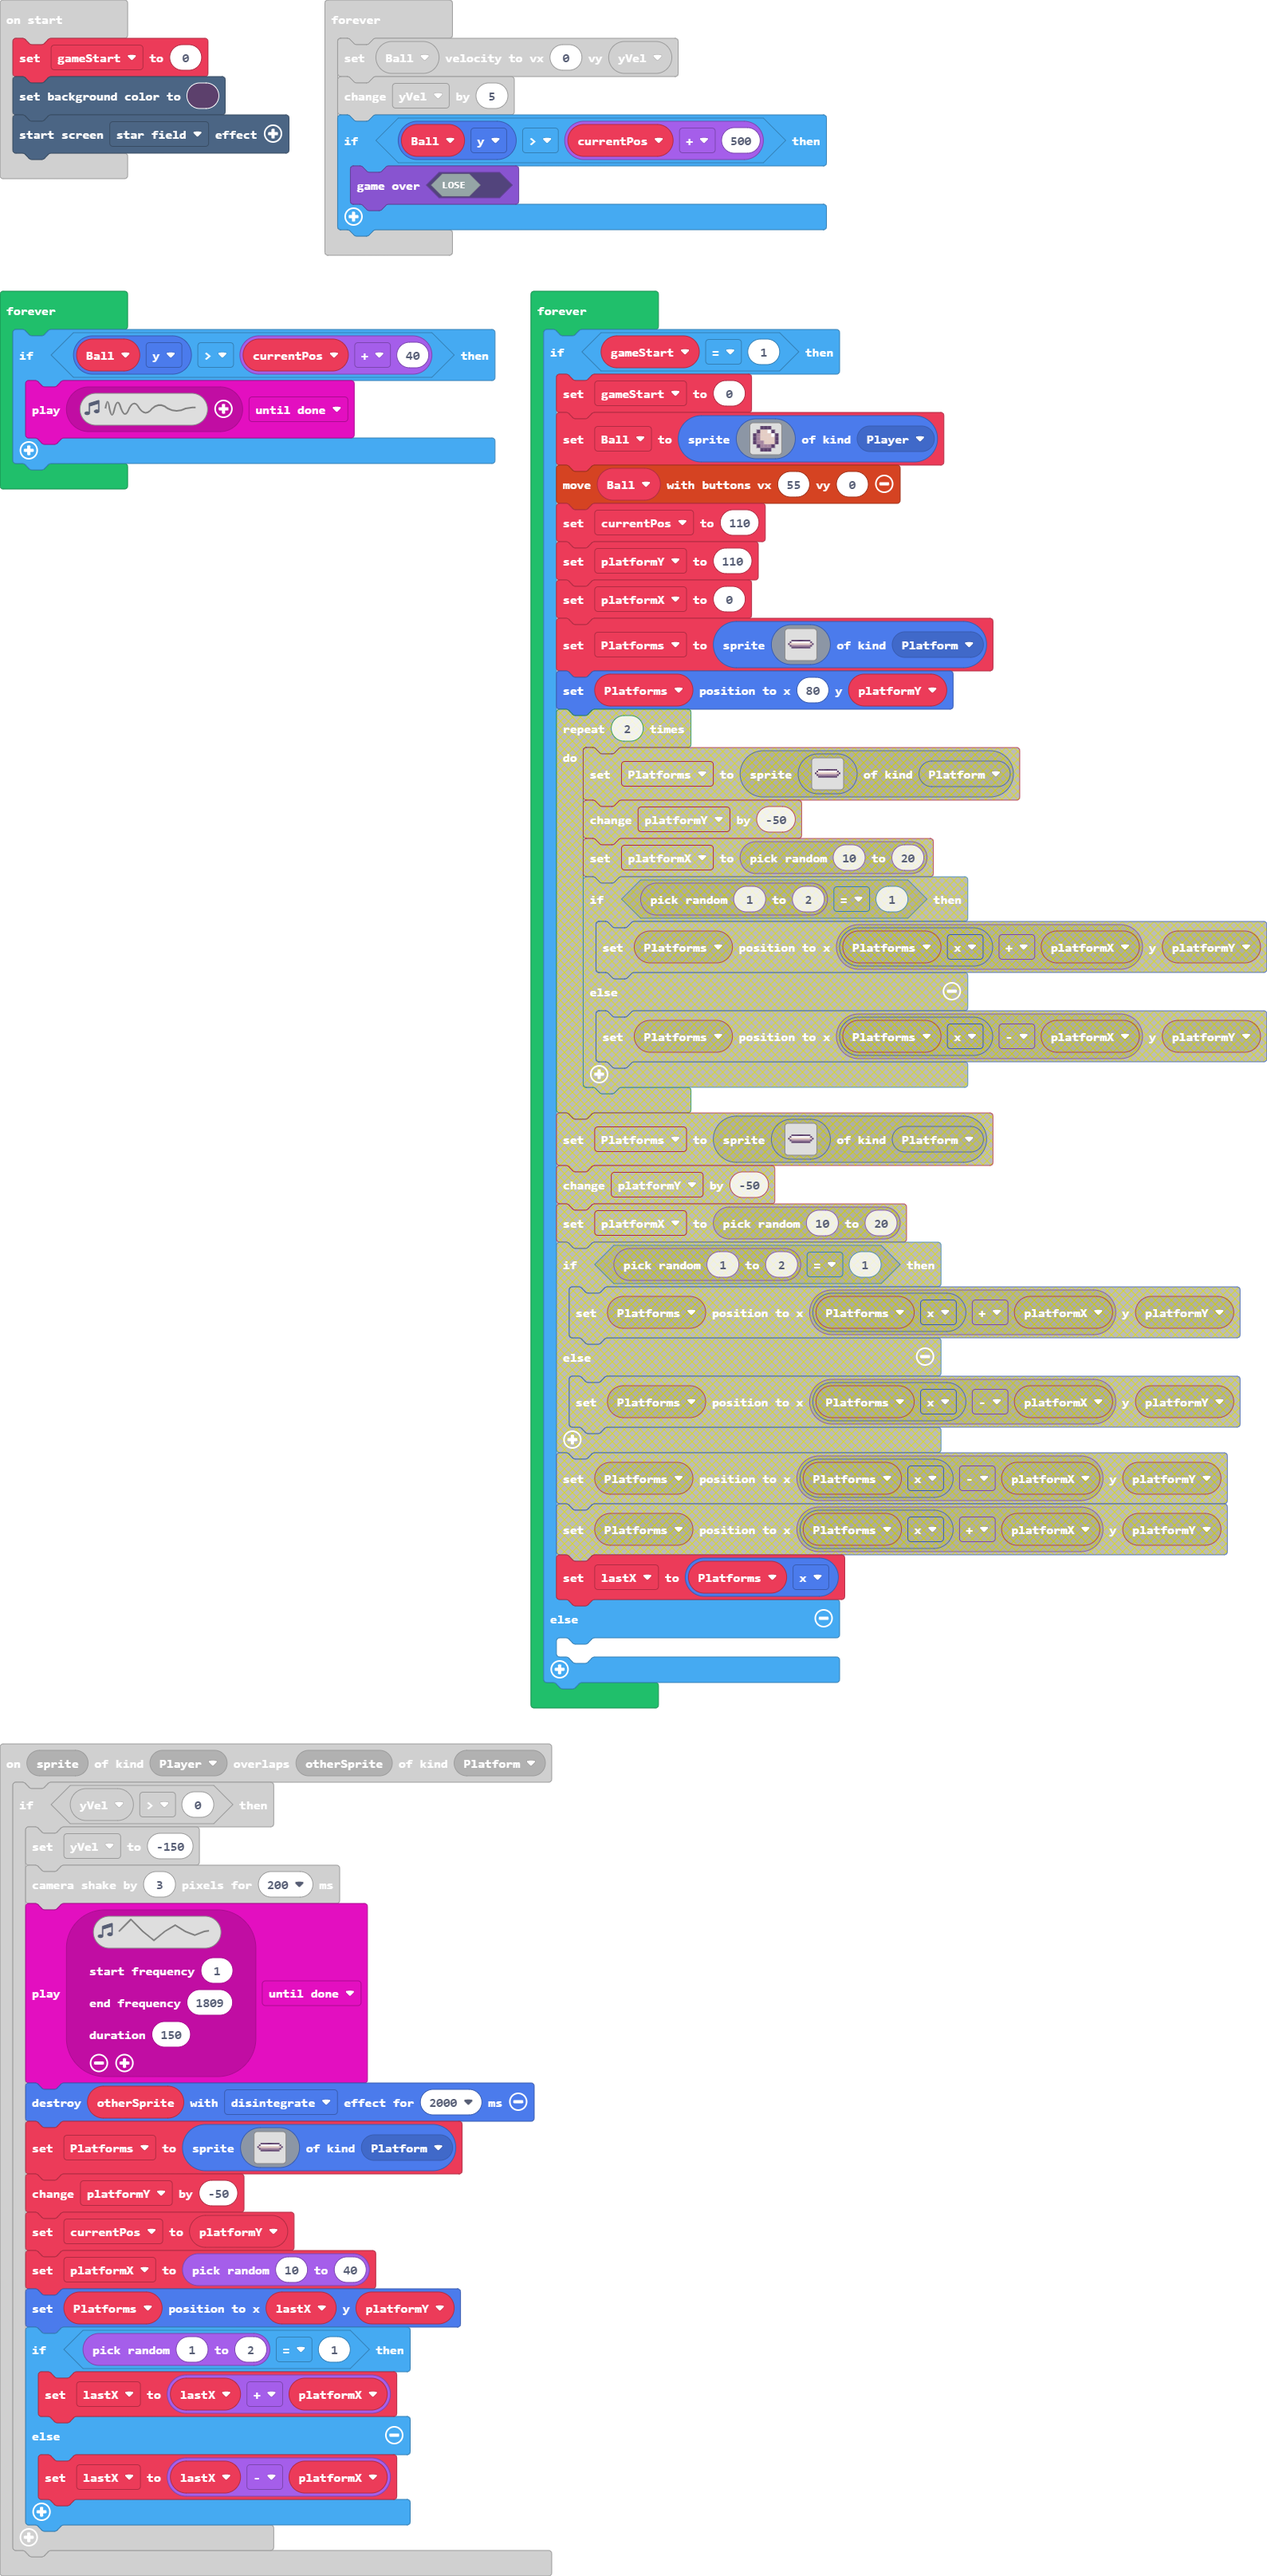
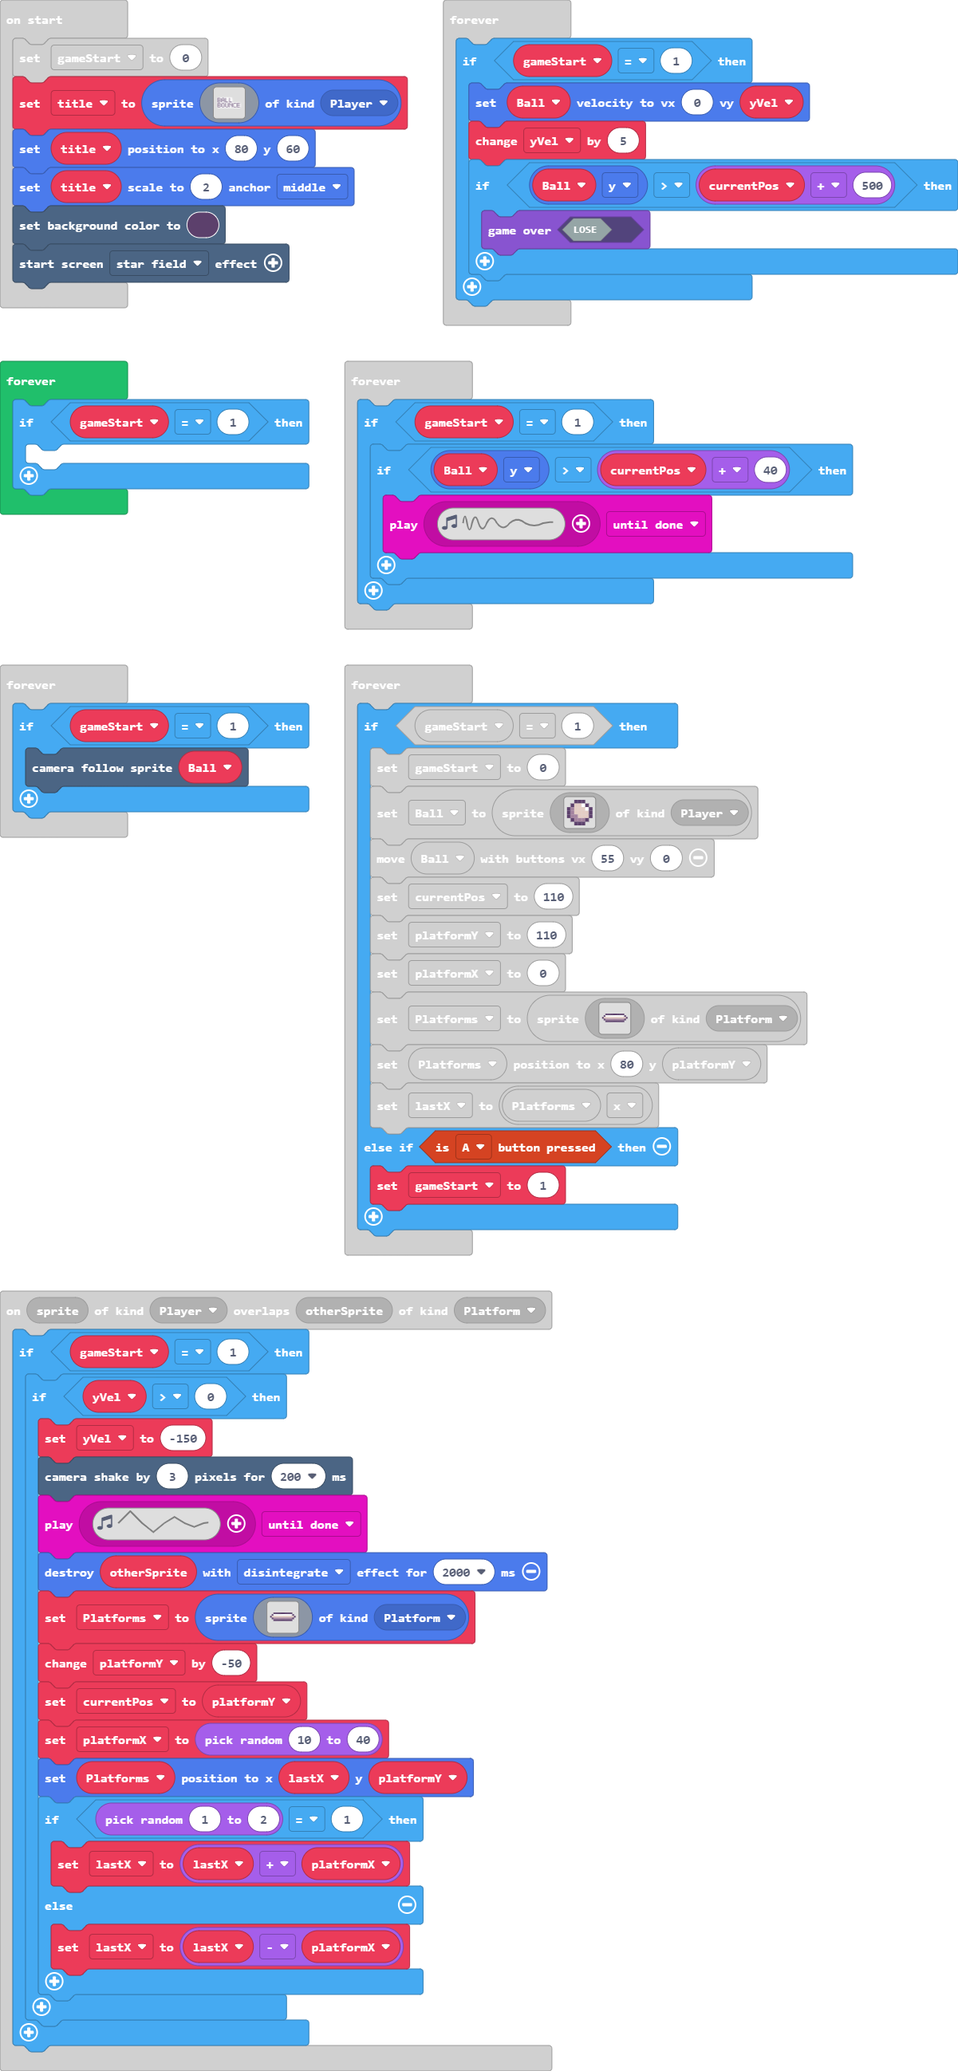
Update main.blocks, main.ts

diff --git a/main.ts b/main.ts
@@ -2,35 +2,28 @@ namespace SpriteKind {
     export const Platform = SpriteKind.create()
 }
 sprites.onOverlap(SpriteKind.Player, SpriteKind.Platform, function (sprite, otherSprite) {
-    if (yVel > 0) {
-        yVel = -150
-        scene.cameraShake(3, 200)
-        music.play(music.createSoundEffect(
-        WaveShape.Triangle,
-        1,
-        1809,
-        255,
-        0,
-        150,
-        SoundExpressionEffect.None,
-        InterpolationCurve.Linear
-        ), music.PlaybackMode.UntilDone)
-        sprites.destroy(otherSprite, effects.disintegrate, 2000)
-        Platforms = sprites.create(img`
-            . . c c c c c c c c c c c . . 
-            . c 1 1 1 1 1 1 1 1 1 1 1 c . 
-            c d d d d d d d d d d d d d c 
-            . c b b b b b b b b b b b c . 
-            . . c c c c c c c c c c c . . 
-            `, SpriteKind.Platform)
-        platformY += -50
-        currentPos = platformY
-        platformX = randint(10, 40)
-        Platforms.setPosition(lastX, platformY)
-        if (randint(1, 2) == 1) {
-            lastX = lastX + platformX
-        } else {
-            lastX = lastX - platformX
+    if (gameStart == 1) {
+        if (yVel > 0) {
+            yVel = -150
+            scene.cameraShake(3, 200)
+            music.play(music.createSoundEffect(WaveShape.Triangle, 1, 1809, 255, 0, 150, SoundExpressionEffect.None, InterpolationCurve.Linear), music.PlaybackMode.UntilDone)
+            sprites.destroy(otherSprite, effects.disintegrate, 2000)
+            Platforms = sprites.create(img`
+                . . c c c c c c c c c c c . . 
+                . c 1 1 1 1 1 1 1 1 1 1 1 c . 
+                c d d d d d d d d d d d d d c 
+                . c b b b b b b b b b b b c . 
+                . . c c c c c c c c c c c . . 
+                `, SpriteKind.Platform)
+            platformY += -50
+            currentPos = platformY
+            platformX = randint(10, 40)
+            Platforms.setPosition(lastX, platformY)
+            if (randint(1, 2) == 1) {
+                lastX = lastX + platformX
+            } else {
+                lastX = lastX - platformX
+            }
         }
     }
 })
@@ -42,22 +35,55 @@ let platformY = 0
 let Platforms: Sprite = null
 let yVel = 0
 let gameStart = 0
+gameStart = 0
+let title = sprites.create(img`
+    ..1111111111111111111111................
+    .1cccc111ccc11c11111c111................
+    .1c111c1c111c1c11111c1111...............
+    .1c111c1c111c1c11111c1111...............
+    .1cccc11ccccc1c11111c1111...............
+    .1c111c1c111c1c11111c1111...............
+    .1c111c1c111c1c11111c1111...............
+    .1cccc11c111c1cccc11cccc1...............
+    .111111111111111111111111111111111111...
+    .1cccc111ccc11c111c1c111c11cccc1ccccc1..
+    .1c111c1c111c1c111c1cc11c1c11111c11111..
+    .1c111c1c111c1c111c1c1c1c1c11111c11111..
+    .1cccc11c111c1c111c1c11cc1c11111ccccc1..
+    .1c111c1c111c1c111c1c111c1c11111c11111..
+    .1c111c1c111c1c111c1c111c1c11111c11111..
+    .1cccc111ccc111ccc11c111c11cccc1ccccc1..
+    ..11111111111111111111111111111111111...
+    `, SpriteKind.Player)
+title.setPosition(80, 60)
+title.setScale(2, ScaleAnchor.Middle)
 scene.setBackgroundColor(12)
 effects.starField.startScreenEffect()
 forever(function () {
-    Ball.setVelocity(0, yVel)
-    yVel += 5
-    if (Ball.y > currentPos + 500) {
-        game.gameOver(false)
+    if (gameStart == 1) {
+        Ball.setVelocity(0, yVel)
+        yVel += 5
+        if (Ball.y > currentPos + 500) {
+            game.gameOver(false)
+        }
     }
 })
 forever(function () {
-    if (Ball.y > currentPos + 40) {
-        music.play(music.createSoundEffect(WaveShape.Sine, 5000, 847, 150, 0, 2000, SoundExpressionEffect.None, InterpolationCurve.Curve), music.PlaybackMode.UntilDone)
+    if (gameStart == 1) {
+    	
     }
 })
 forever(function () {
-    scene.cameraFollowSprite(Ball)
+    if (gameStart == 1) {
+        if (Ball.y > currentPos + 40) {
+            music.play(music.createSoundEffect(WaveShape.Sine, 5000, 847, 150, 0, 2000, SoundExpressionEffect.None, InterpolationCurve.Curve), music.PlaybackMode.UntilDone)
+        }
+    }
+})
+forever(function () {
+    if (gameStart == 1) {
+        scene.cameraFollowSprite(Ball)
+    }
 })
 forever(function () {
     if (gameStart == 1) {
@@ -84,7 +110,7 @@ forever(function () {
             `, SpriteKind.Platform)
         Platforms.setPosition(80, platformY)
         lastX = Platforms.x
-    } else {
-    	
+    } else if (controller.A.isPressed()) {
+        gameStart = 1
     }
 })
